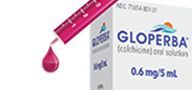
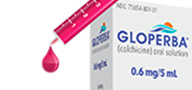
gradient

diff --git a/src/js/main.js b/src/js/main.js
@@ -116,6 +116,7 @@ module.exports = class MainJs {
 
 
     const frame6 = () => {
+      helperFunctions.animate(screen6, {background: 'linear-gradient(to bottom, transparent, white), url(img/bg-6-gradient.png)'}, SLIDE_ANIMATION_SPEED, 'ease');
       helperFunctions.fadeIn(screen6, ANIMATION_DELAY_MEDIUM, () => {
         setTimeout(() => {
         helperFunctions.animate(screen6.querySelector('.bg-image'), {transform: 'translateY(0)'}, SLIDE_ANIMATION_SPEED, 'ease');

diff --git a/src/scss/pages/gloperba_728x90.scss b/src/scss/pages/gloperba_728x90.scss
@@ -160,7 +160,6 @@
         text-shadow: 2px 2px #808080;
         text-align: center;
         letter-spacing: -1px;
-      
       }
     }
   }
@@ -169,10 +168,9 @@
   .screen-6 {
 
     .content{
-      background-image: url(../img/bg.png);
+      background: transparent;
       background-size:cover;
       background-repeat: no-repeat;
-      background-position-y: -60px;
       display: flex;
       flex-direction: column;
       align-items: flex-start;

diff --git a/src/scss/pages/gloperba_300x250.scss b/src/scss/pages/gloperba_300x250.scss
@@ -168,7 +168,7 @@
      .screen-6 {
    
        .content{
-         background-image: url(../img/bg.png);
+        background: transparent;
          background-size:cover;
          background-repeat: no-repeat;
          background-position-y: -60px;

diff --git a/src/scss/pages/gloperba_180x150.scss b/src/scss/pages/gloperba_180x150.scss
@@ -190,7 +190,7 @@
    .screen-6 {
  
      .content{
-       background-image: url(../img/bg.png);
+      background: transparent;
        background-size:cover;
        background-repeat: no-repeat;
        background-position-y: -60px;
